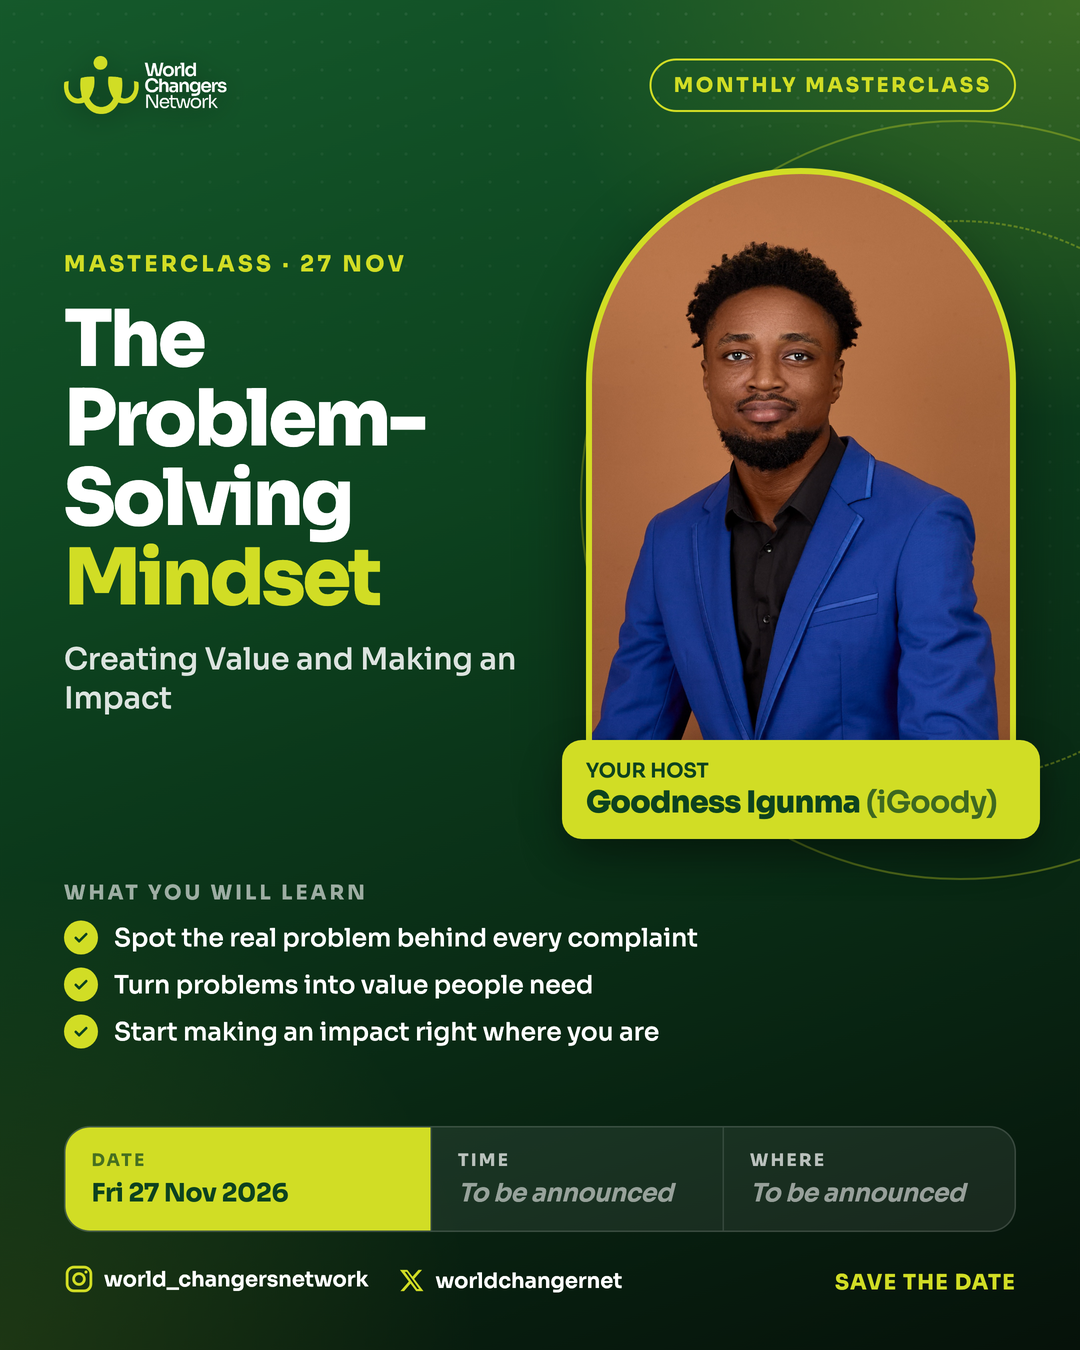
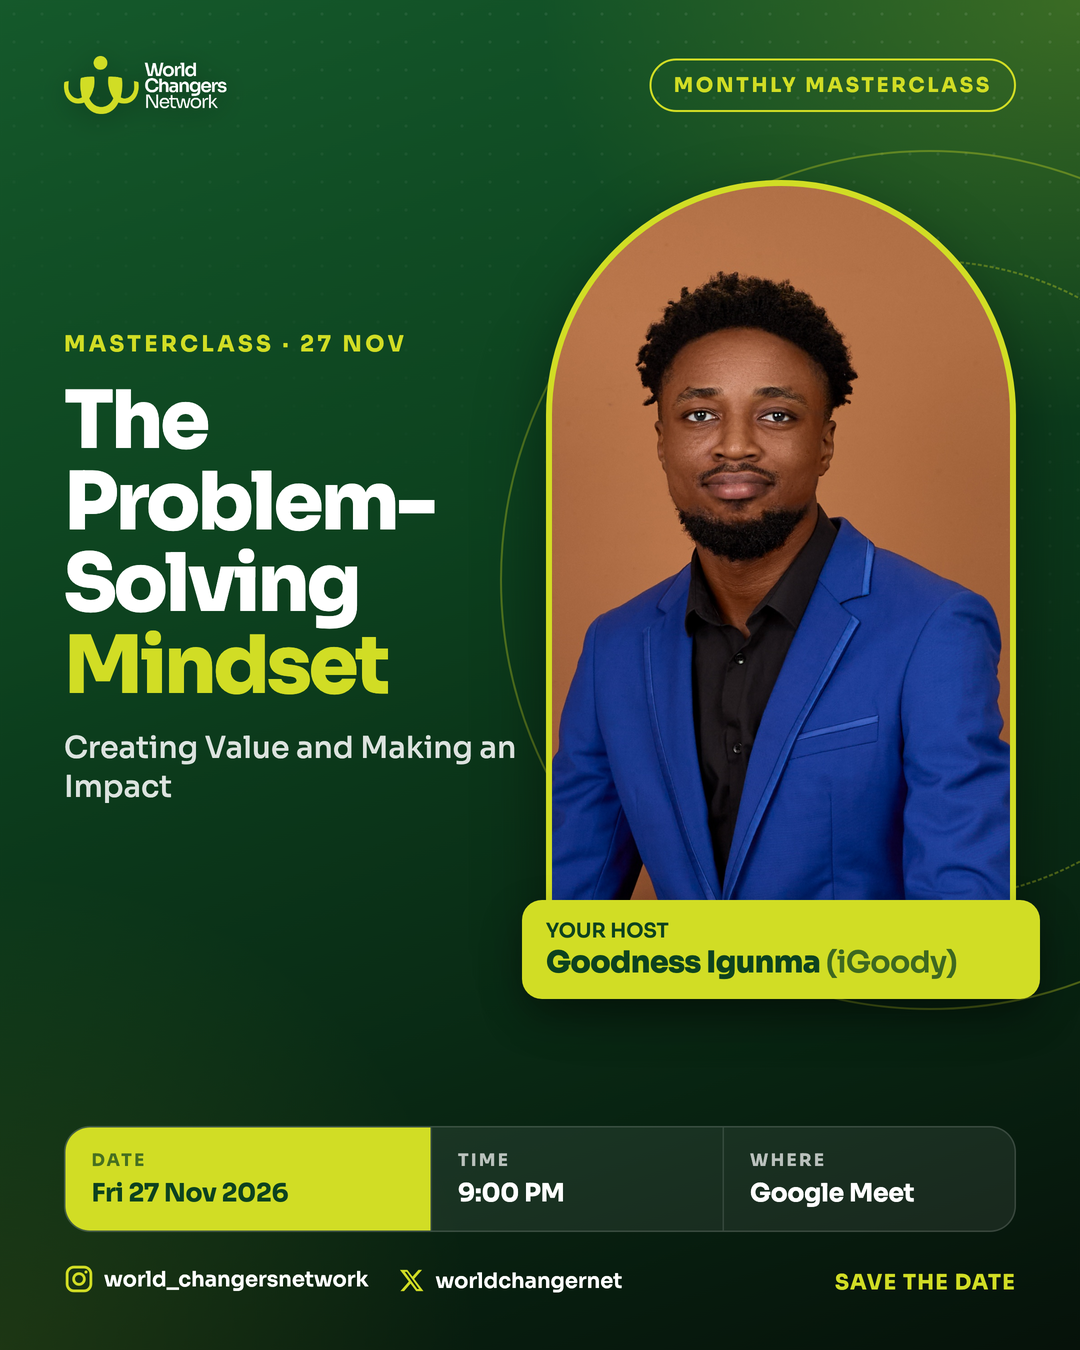
Masterclass 27 Nov: 9:00 PM on Google Meet, no learn list, layouts rebalanced

diff --git a/tools/masterclass.py b/tools/masterclass.py
@@ -160,21 +160,21 @@ def title_size(title, base, long_at=30):
 # ------------------------------------------------------------------ layouts
 def layout_arch(row):
     t = row["Title"]
-    fs = title_size(t, 78)
+    fs = title_size(t, 80)
     sub = row.get("Subtitle", "").strip()
     inner = f"""
-<div class="ring" style="width:760px;height:760px;right:-260px;top:120px"></div>
-<div class="ring" style="width:560px;height:560px;right:-160px;top:220px;border-style:dashed"></div>
+<div class="ring" style="width:860px;height:860px;right:-280px;top:150px"></div>
+<div class="ring" style="width:640px;height:640px;right:-170px;top:260px;border-style:dashed"></div>
 {top()}
-<div class="photo" style="right:64px;top:168px;width:430px;height:620px;
-  border-radius:215px 215px 28px 28px;background-image:url({photo_uri(row)});
+<div class="photo" style="right:64px;top:180px;width:470px;height:780px;
+  border-radius:235px 235px 28px 28px;background-image:url({photo_uri(row)});
   background-position:{row.get('Photo position') or '50% 20%'};border:6px solid {LIME}"></div>
-<div style="position:absolute;right:40px;top:740px;width:478px;background:{LIME};color:{FOREST};
+<div style="position:absolute;right:40px;top:900px;width:518px;background:{LIME};color:{FOREST};
   border-radius:20px;padding:18px 24px;box-shadow:0 18px 40px rgba(0,0,0,.35)">
   <div class="role">YOUR HOST</div>
   <div class="name" style="font-size:30px;color:{FOREST}">{host_line(row)}</div>
 </div>
-<div style="position:absolute;left:64px;top:250px;width:500px">
+<div style="position:absolute;left:64px;top:330px;width:480px">
   <div class="kicker" style="margin-bottom:22px">Masterclass · {nice_date(row['Date'])[1]} {nice_date(row['Date'])[2]}</div>
   <h1 style="font-size:{fs}px">{headline(t)}</h1>
   {f'<p class="sub" style="font-size:30px;margin-top:22px">{g.esc(sub)}</p>' if sub else ''}
@@ -193,19 +193,19 @@ def layout_card(row):
     fs = title_size(t, 70)
     inner = f"""
 {top()}
-<div class="photo" style="left:64px;right:64px;top:150px;height:520px;border-radius:32px;
+<div class="photo" style="left:64px;right:64px;top:150px;height:660px;border-radius:32px;
   background-image:url({photo_uri(row)});background-position:{row.get('Photo position') or '50% 22%'}"></div>
-<div style="position:absolute;left:64px;right:64px;top:150px;height:520px;border-radius:32px;
+<div style="position:absolute;left:64px;right:64px;top:150px;height:660px;border-radius:32px;
   background:linear-gradient(180deg,transparent 60%,rgba(6,18,10,.75) 100%)"></div>
 <div style="position:absolute;right:96px;top:120px;width:150px;height:150px;border-radius:50%;
   background:{LIME};color:{FOREST};display:flex;flex-direction:column;align-items:center;
   justify-content:center;box-shadow:0 16px 40px rgba(0,0,0,.4);border:6px solid {FOREST}">
   <span style="font-family:'Display';font-weight:800;font-size:58px;line-height:1">{day}</span>
   <span style="font-weight:700;font-size:22px;letter-spacing:.14em">{mon}</span></div>
-<div style="position:absolute;left:96px;top:592px">
+<div style="position:absolute;left:96px;top:732px">
   <div style="font-size:18px;letter-spacing:.16em;font-weight:700;color:{LIME}">YOUR HOST</div>
   <div class="name">{host_line(row)}</div></div>
-<div style="position:absolute;left:64px;right:64px;top:712px">
+<div style="position:absolute;left:64px;right:64px;top:860px">
   <h1 style="font-size:{fs}px">{headline(t)}</h1>
   {f'<p class="sub" style="font-size:29px;margin-top:14px">{g.esc(sub)}</p>' if sub else ''}
 </div>
@@ -253,19 +253,19 @@ def layout_pass(row):
     logo = logo_dark if os.path.exists(logo_dark) else g.LOGO
     return f"""<style>{PASS_CSS}</style><div class="light">
 <div class="top"><img src="{g.data_uri(logo)}" style="filter:none"/></div>
-<div style="position:absolute;left:64px;top:190px;width:560px">
+<div style="position:absolute;left:64px;top:420px;width:540px">
   <div class="kicker" style="margin-bottom:20px">Monthly Masterclass · {nice_date(row['Date'])[1]} {nice_date(row['Date'])[2]}</div>
   <h1 style="font-size:{fs}px;line-height:1.12">{headline(t)}</h1>
   {f'<p class="sub" style="font-size:28px;margin-top:20px">{g.esc(sub)}</p>' if sub else ''}
 </div>
-<div style="position:absolute;right:190px;top:0;width:56px;height:210px;background:{FOREST};
+<div style="position:absolute;right:205px;top:0;width:56px;height:250px;background:{FOREST};
   transform:skewX(-6deg);box-shadow:inset 0 0 0 6px rgba(209,221,37,.35)"></div>
-<div style="position:absolute;right:78px;top:190px;width:330px;height:560px;background:#fff;
+<div style="position:absolute;right:70px;top:230px;width:390px;height:760px;background:#fff;
   border-radius:28px;transform:rotate(5deg);box-shadow:0 30px 60px rgba(13,66,31,.25);padding:26px">
   <div style="width:90px;height:16px;border-radius:9px;background:#E4EAD0;margin:0 auto 22px"></div>
-  <div style="height:330px;border-radius:18px;background:url({photo_uri(row)}) {row.get('Photo position') or '50% 20%'}/cover no-repeat"></div>
+  <div style="height:480px;border-radius:18px;background:url({photo_uri(row)}) {row.get('Photo position') or '50% 20%'}/cover no-repeat"></div>
   <div style="margin-top:18px;font-size:15px;letter-spacing:.16em;font-weight:700;color:#7d8a2a">SPEAKER</div>
-  <div style="font-family:'Display';font-weight:800;font-size:32px;color:{FOREST};letter-spacing:-.02em;line-height:1.1">{g.esc(row['Host'])}</div>
+  <div style="font-family:'Display';font-weight:800;font-size:38px;color:{FOREST};letter-spacing:-.02em;line-height:1.1">{g.esc(row['Host'])}</div>
   {f'<div style="font-size:19px;font-weight:600;color:rgba(13,66,31,.7);margin-top:4px">aka {aka}</div>' if aka else ''}
   <div style="position:absolute;right:22px;bottom:22px;width:62px;height:62px;border-radius:50%;
     background:{LIME};display:flex;align-items:center;justify-content:center">

diff --git a/Masterclass/README.md b/Masterclass/README.md
@@ -19,7 +19,7 @@ Each session gets an Instagram portrait flyer (1080x1350) in WCN brand
 | Subtitle | Optional second line under the title |
 | Host / Also known as | Full name, and a nickname shown in brackets |
 | Photo | File name in `images/hosts/` |
-| What you will learn | Up to three points, separated by `|` |
+| What you will learn | Optional, up to three points separated by `\|`. Arkcore (25 Nov): leave blank, no learn list on flyers |
 | Time / Platform | Leave blank and the flyer says "To be announced" |
 | Photo position | Optional CSS crop, e.g. `50% 15%`, if a face is cut off |
 | Status | `planned`, `draft`, `approved`, `posted` |
